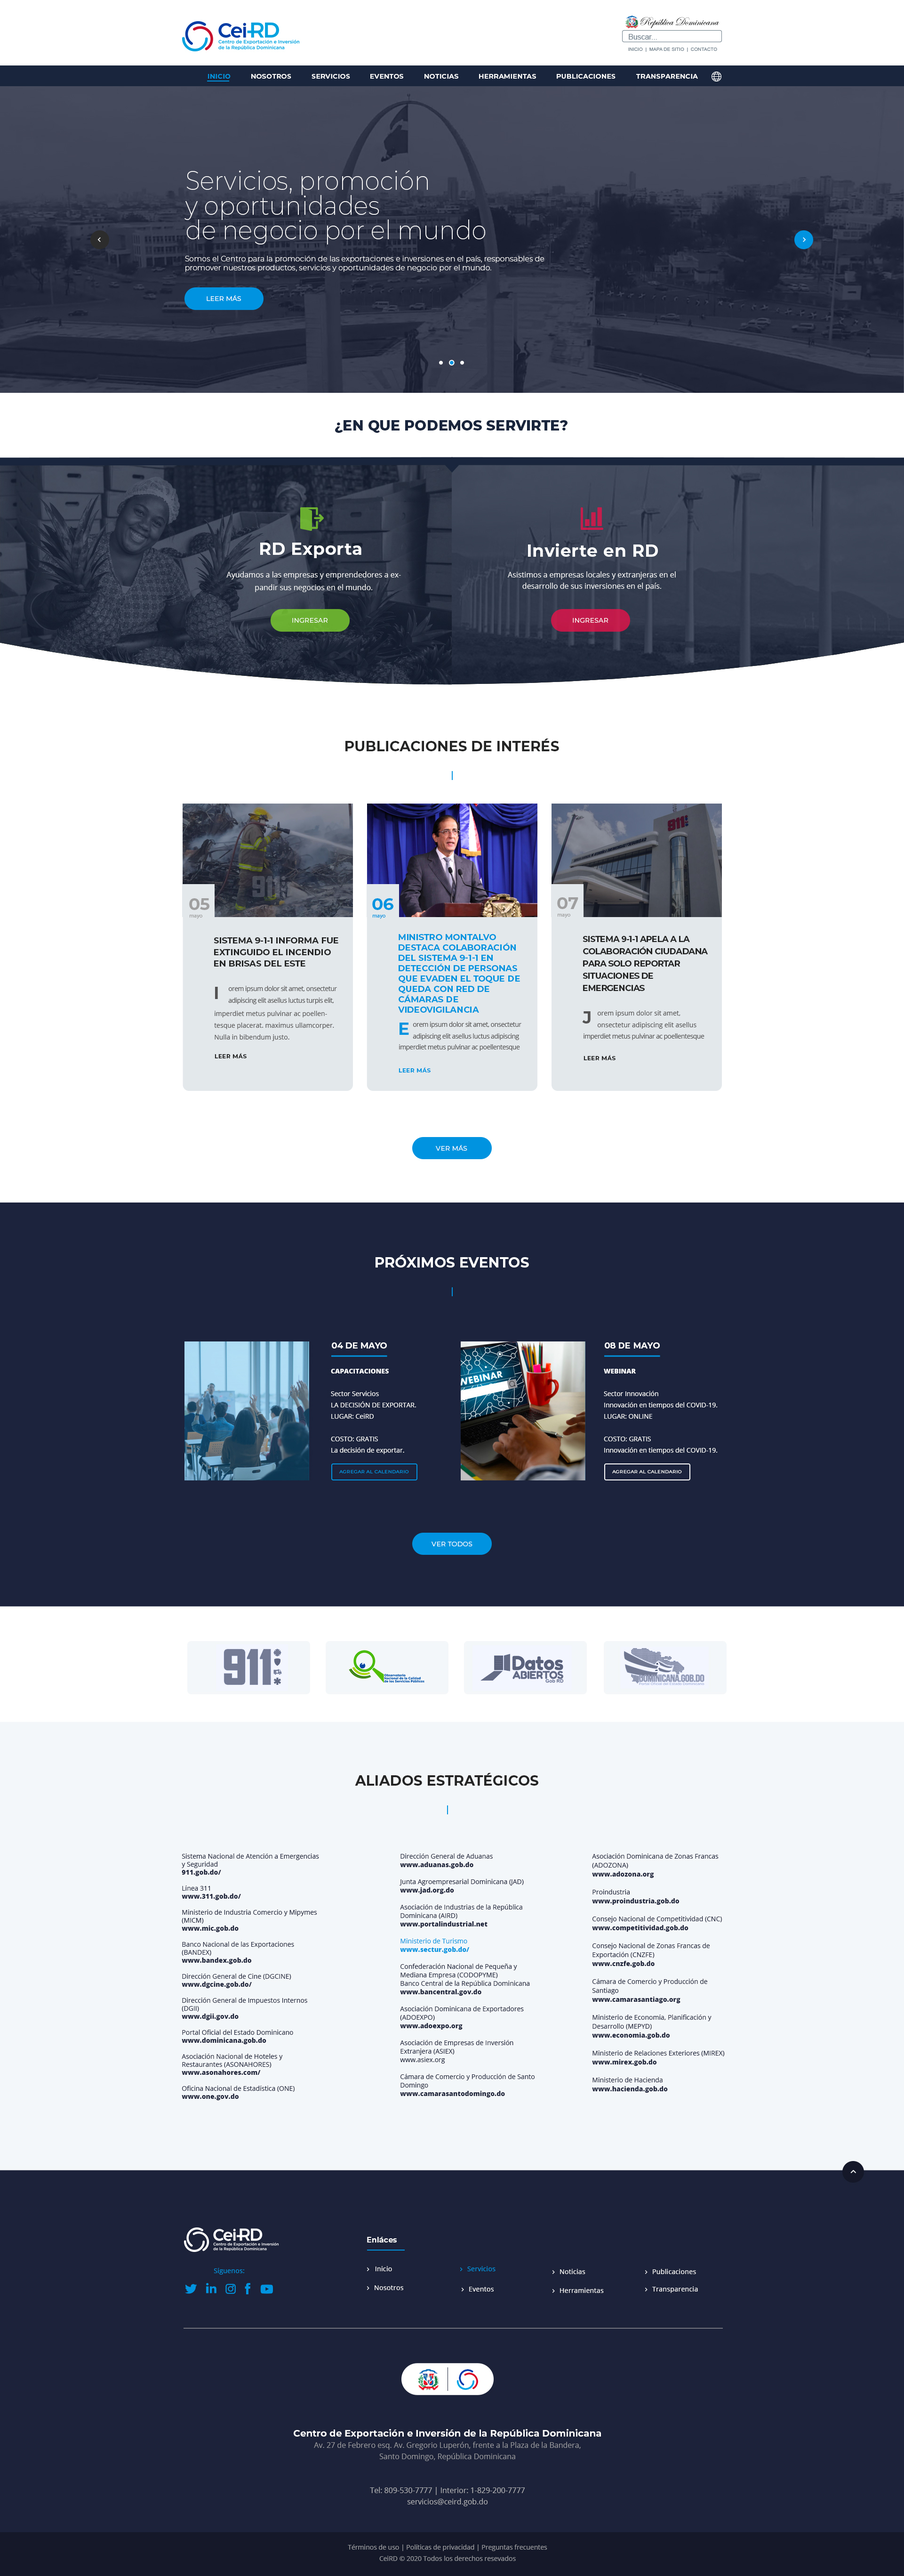
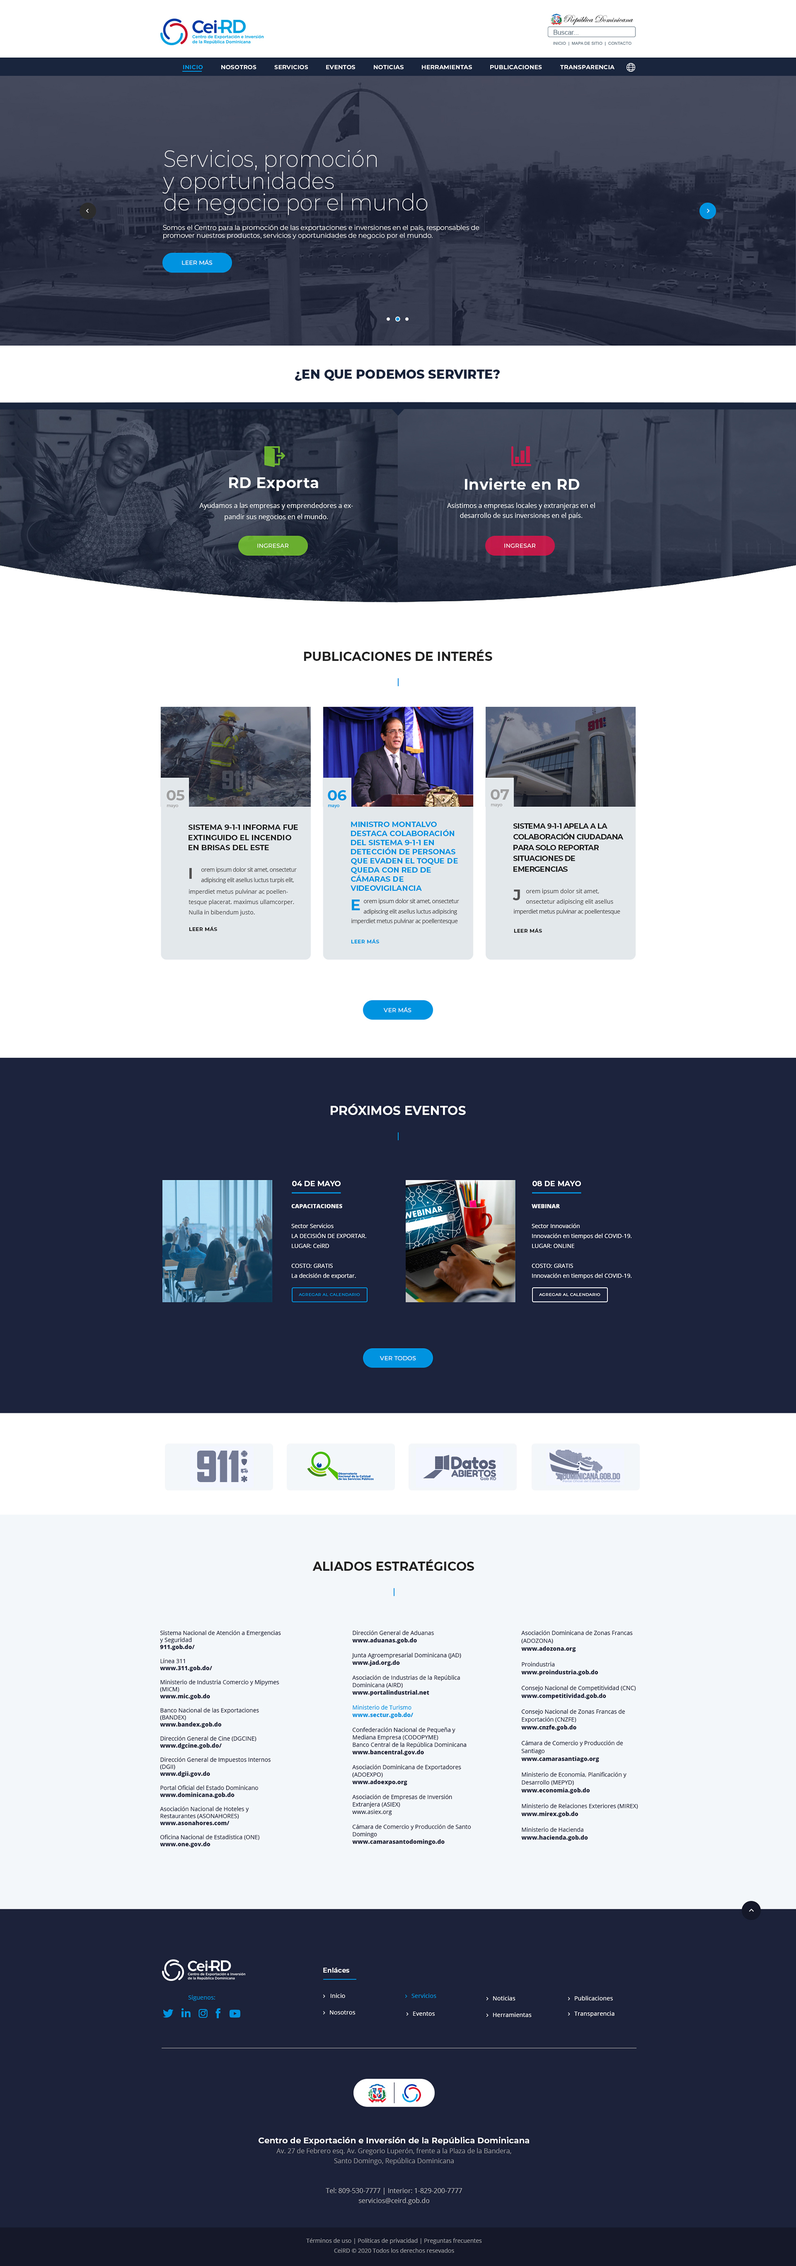
update

diff --git a/index.html b/index.html
@@ -5,7 +5,7 @@
 </head>
 <body>
     <div style="text-align:center;vertical-align:middle;">
-        <img src="images/index.jpg" style="margin:auto; width:1921px;" />
+        <img src="images/index.jpg" style="margin:auto; width:1690px;" />
     </div>
 </body>
 </html>
